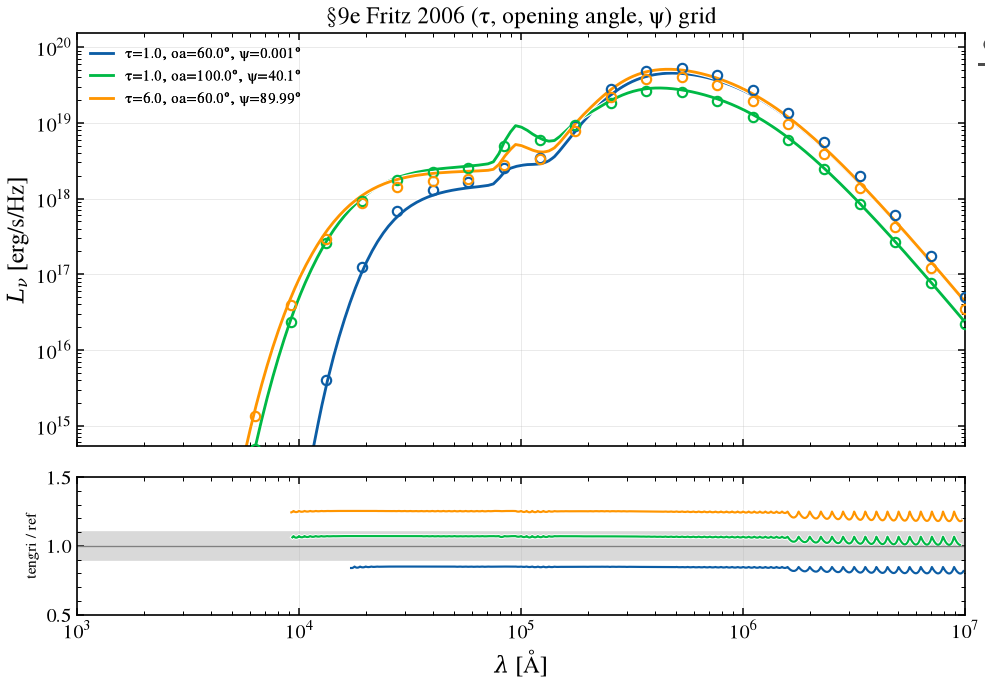
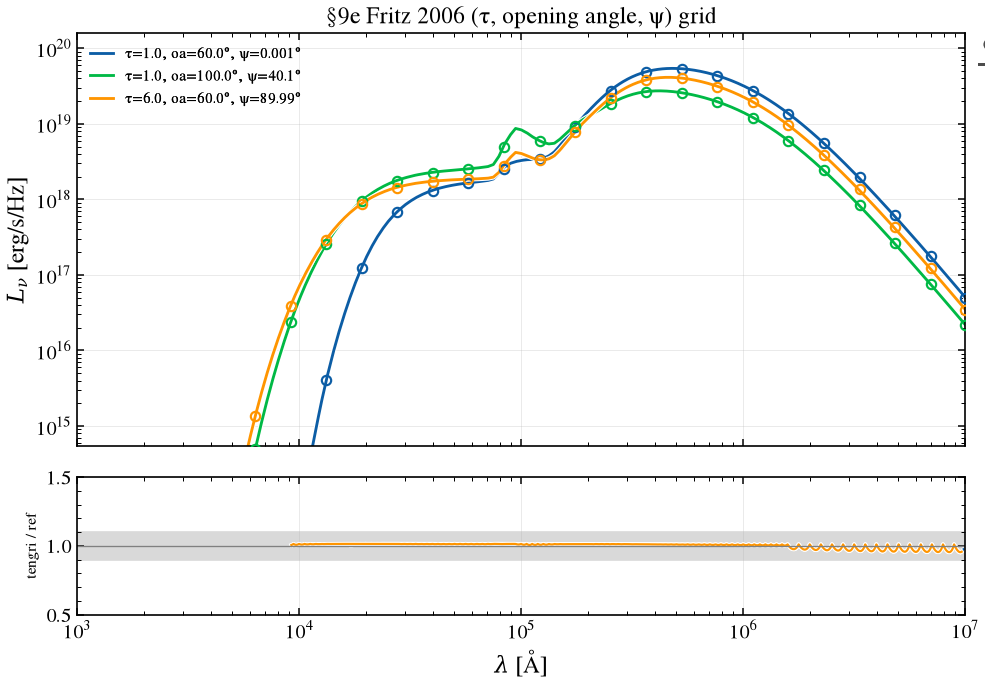
docs: CIGALE reproduction §9e Fritz agrees under the cigale_joint ruling; changelog
Claude-Session: https://claude.ai/code/session_01CXYb1P7GTCo6dcEqaWfLnV

diff --git a/reproduction/cigale/01_cigale.py b/reproduction/cigale/01_cigale.py
@@ -3865,16 +3865,18 @@ print(
 # is the Schartmann disc of §9 and of the SKIRTOR runs, so the disc under the torus is
 # the same on both sides.
 #
-# The Fritz comparison does not agree in these three cases. The printed table gives band
-# medians of 0.846×, 1.066× and 1.248×, with 12, 9 and 12 of 12 IR bands outside 5 %, and a
-# ratio that is nearly flat across the bands within each case (0.816–0.849×, 1.028–1.070×
-# and 1.204–1.253×). The cause is the inclination dependence of the torus power. pcigale
-# sets the torus plus polar dust to `agn_power` at every ψ. tengri keeps the Fritz library's
-# own per-inclination dust flux, so its torus plus polar luminosity is a function of the
-# sightline: the cell prints it as a multiple of `agn_power`, 0.85×, 1.07× and 1.25× for
-# ψ = 0.001°, 40.1° and 89.99°. The same multiple for the SKIRTOR cases above is flat in
-# i, which is why that grid stays at 1.011×. A Fritz model that is to reproduce pcigale's
-# budget at a given ψ therefore differs from it by these printed factors.
+# The Fritz comparison agrees in these three cases. The printed table gives band medians of
+# 1.011×, 1.009× and 1.010×, worst bands 0.975×, 0.974× and 0.974×, and none of 12 IR bands
+# outside 5 %. Under `cigale_joint` the tied Fritz torus plus polar dust carries `agn_power`
+# at every ψ, as pcigale's `fritz2006` does: pcigale divides the dust by its own integral at
+# the chosen ψ and multiplies it by `agn_power`, so the library's per-inclination dust flux
+# does not enter the total. The cell prints the torus plus polar luminosity as a multiple of
+# `agn_power`, 1.011× at each of ψ = 0.001°, 40.1° and 89.99°, the same flat value as the
+# SKIRTOR cases above. Before the owner ruling of 2026-11-13 tengri kept the library's
+# per-inclination flux here and the multiples were 0.85×, 1.07× and 1.25× (band medians
+# 0.846×, 1.066× and 1.248×). The per-sightline spectral shape of the torus is unchanged; only
+# the total is held. The untied path (`agn_ir_frac = 0`) and `agn_norm="independent"` keep the
+# library's anisotropy.
 
 # %%
 _AGN_SFH_9E = {
@@ -5684,7 +5686,7 @@ plt.show()
 # | 7 | panchromatic | energy-weighted 1.0616× (912–1200 Å), 1.0614× (1250–3000 Å), 1.0125× (0.3–1 μm), 1.0081× (3–8 μm), 1.0127× (10–100 μm), 1.0118× (100–1000 μm) |
 # | 8 | nebular | Q_H 1.146× (shared SSP); raw Hα 1.12×, [O III] 0.96×, Hβ 1.12×, and per ionizing photon 0.974×, 0.834×, 0.978×; §8b at the six stable cases the largest ratio-of-ratios is 0.99× (Hα/Hβ), 2.06× ([O III]/Hβ) and 4.23× ([O II]/Hβ), with Z_gas = 0.041 degenerate in CIGALE's grid (18.87× and 44.38×); Hβ/Q_H at f_esc = 0.5 over f_esc = 0 is 0.3851 (tengri) and 0.3862 (CIGALE) against (1 − f)/(1 + 0.597 f) = 0.3851; Cue's [O III]/Hβ response to logU is 1.154 / 1.596 / 1.663 at the fitted shape and 3.416 / 5.499 / 6.085 at Cue's default hard shape, for logU = −3 / −2 / −1.5 |
 # | 9 | AGN, SKIRTOR | disc 1.0101×, torus 1.0113×, polar dust 1.0120× (§9); 1.0076×, 1.0150×, 0.9998× with the SKIRTOR disc (§9b); 1500–3000 Å full SED 1.027×, of which host 1.061× and disc 1.009×; §9d `R_faceon` 0.998154×, quadrature term 0.994058×, curve term 1.002761×, polar reference 0.996803× (`polar_law="bongiorno"`; 0.970908× with the default `"smc"`); §9e SKIRTOR grid band medians 1.011–1.012×, worst band 1.013× |
-# | 9 | AGN, Fritz | §9e band medians 0.846×, 1.066×, 1.248× (worst bands 0.816×, 1.070×, 1.253×; 12, 9 and 12 of 12 bands outside 5 %): tengri's torus plus polar dust is 0.85×, 1.07× and 1.25× of pcigale's `agn_power`, which pcigale holds fixed at every ψ |
+# | 9 | AGN, Fritz | §9e band medians 1.011×, 1.009×, 1.010× (worst bands 0.975×, 0.974×, 0.974×; none of 12 bands outside 5 %): under `cigale_joint` tengri's torus plus polar dust is 1.011× of `agn_power` at every ψ, as pcigale holds it (0.85×, 1.07×, 1.25× before the 2026-11-13 ruling) |
 # | 9 | AGN, tied disc edge | step across the 10 Å library edge, F(10⁻)/[F(10⁺) T_X], 1.0000–1.0032 for Fritz and SKIRTOR at cos i = 0.94, 0.70, 0.30; pcigale `fritz2006` and `skirtor2016` have 0 grid points shortward of 10 Å |
 # | 9 | AGN, SKIRTOR normalization | agn_log_lbol = log10(P_acc / L_sun) with P_acc = 0.4931 L_intrin,disc agn_power; AGN-only NIR/V shape 0.960×, V 1.013×, 1.0–1.2 μm 0.972×, bolometric 1.062× at E(B−V) = 0.03, and 1.005×, 0.936×, 0.940×, 0.921× at E(B−V) = 0 |
 # | 10 | X-ray | 1.010× at 2 keV and as a 0.5–10 keV median, at i = 0°, 30°, 60° and 80° |

diff --git a/src/tengri/components/agn/blocks/runner.py b/src/tengri/components/agn/blocks/runner.py
@@ -1050,7 +1050,7 @@ agn_torus_block, agn_attenuation_block : str
     _ledger_polar_norm = 1.0
     _tie_active = _agn_norm == "cigale_joint" and agn_torus_block in _TIE_TORI
     # The Fritz torus's library anisotropy stays on the untied path; where the tie is on the
-    # torus + polar dust carry ``agn_power`` at every inclination, as CIGALE's ``fritz2006`` (#3405).
+    # torus + polar dust carry ``agn_power`` at every inclination, as CIGALE's ``fritz2006``.
     _fritz_tied_flat = _tie_active and agn_torus_block == "fritz"
     # A disc with a corona registers its disc/corona split; the tie normalizes the disc part
     # and carries the corona on top (see ``_disc_parts``). A corona-less disc takes the
@@ -1329,7 +1329,7 @@ agn_torus_block, agn_attenuation_block : str
         """
         _aniso = TORUS_ANISOTROPY_BLOCKS.get(agn_torus_block)
         if _aniso is None or _fritz_tied_flat:
-            # A tied Fritz torus carries ``agn_power`` along every sightline (#3405).
+            # A tied Fritz torus carries ``agn_power`` along every sightline (owner 2026-11-13).
             return sightline_power
         _log_ratio = _aniso(_templates_for("torus", agn_torus_block), wave.dtype, **params)
         return sightline_power / jnp.power(10.0, _log_ratio)
@@ -1485,7 +1485,7 @@ agn_torus_block, agn_attenuation_block : str
     _torus_block_fn = resolve_agn_block("torus", agn_torus_block)
 
     def torus_fn(*args, **kwargs):
-        """The torus block, with a tied Fritz torus's library anisotropy removed (#3405)."""
+        """The torus block; a tied Fritz torus has its library anisotropy removed (2026-11-13)."""
         _out = _torus_block_fn(*args, **kwargs)
         if _fritz_tied_flat:
             _out = _out / jnp.power(10.0, _tied_log_anisotropy())
@@ -2184,7 +2184,7 @@ agn_torus_block, agn_attenuation_block : str
             else _aniso_fn(_templates_for("torus", agn_torus_block), wave.dtype, **params)
         )
         if _fritz_tied_flat:
-            # Where the tie is on the torus is flat: nothing to divide out (#3405).
+            # Where the tie is on the torus is flat: nothing to divide out (owner 2026-11-13).
             _log_aniso = jnp.where(_agn_fracAGN > 0.0, 0.0, _log_aniso)
         # A foreground attenuation block screens the torus as well; its power before the screen
         # is the torus block's own emission (``polar_dust`` leaves the torus unscreened).

diff --git a/tests/regression/bug/test_bug_fritz_cigale_joint_agn_power.py b/tests/regression/bug/test_bug_fritz_cigale_joint_agn_power.py
@@ -1,8 +1,9 @@
 # SPDX-License-Identifier: BSD-3-Clause
 """Under ``cigale_joint`` the tied Fritz torus + polar dust carry ``agn_power`` at every psi.
 
-Owner ruling 2026-11-13, narrowing the 2026-10-13 one (#3070, #2851) for ``agn_norm='cigale_joint'``
-with the Fritz torus and the ``agn_ir_frac`` tie only. pCIGALE's ``fritz2006`` divides the dust
+Owner ruling 2026-11-13, narrowing the 2026-10-13 one (#3070, #2851) for
+``agn_norm='cigale_joint'`` with the Fritz torus and the ``agn_ir_frac`` tie only. pCIGALE's
+``fritz2006`` divides the dust
 (torus plus polar blackbody) by its own integral at the chosen ``psy`` and multiplies it by
 ``agn_power``, so the AGN dust total does not depend on the viewing angle (Fritz et al. 2006,
 MNRAS 366, 767; ``pcigale/sed_modules/fritz2006.py``, ``norm = 1/trapz(dust)``). tengri kept the

diff --git a/CHANGELOG.md b/CHANGELOG.md
@@ -97,6 +97,7 @@
 - `SEDModel.precompute_spectroscopy(wave)`, the spectrum table is built at build time from `Observation.spectroscopy.wave_obs`: pass `approx=SpectrumPrecomp()` to `SEDModel.build`. Removed without a changelog entry (#3358).
 
 ### Fixed
+- **Under `agn_norm='cigale_joint'` the tied Fritz torus and polar dust carry `agn_power` at every inclination (owner 2026-11-13).** pCIGALE's `fritz2006` divides the dust by its own integral at the chosen ψ and scales it by `agn_power`; tengri kept the library's per-inclination flux, so torus plus polar read 0.847x, 1.068x and 1.250x of `agn_power` at the §9e cases and 1.011x now at all three (Fritz et al. 2006). The sightline spectral shape is unchanged. The untied path (`agn_ir_frac = 0`), `independent` and every other torus keep their anisotropy. Test: `tests/regression/bug/test_bug_fritz_cigale_joint_agn_power.py`.
 - fix(analysis): convergence table names the parameter with the minimum ESS (#3397). The "Low ESS" warning named the first below-threshold parameter instead of the one holding the minimum; on a tie every parameter at the minimum is named.
 - **`load_catalog` refuses a flux band with no error column instead of dropping it (#3285).** A `flux_<band>` column with no matching error column used to vanish from `bands` with only a docstring line saying so. It now raises `ValueError` naming every such band. `load_catalog(..., allow_unpaired_bands=True)` is the explicit opt-in to drop them, which warns with the names; the result lists them under `"dropped_bands"`.
 - **The IGM sub-band cache fails loud on a bad entry (#3285).** `_subband_cache.load` returned `None` on any exception, so a corrupt entry was recomputed silently, and a readable entry of the wrong shape was recomputed by each caller's own check. It now returns `None` only for an absent entry (or a disabled cache), raises `RuntimeError` naming the file when the entry cannot be read, and takes `expected_shape` (with `None` as a wildcard) to raise `ValueError` on a shape mismatch. All four callers pass the shape their redshift grid and node layout require.
